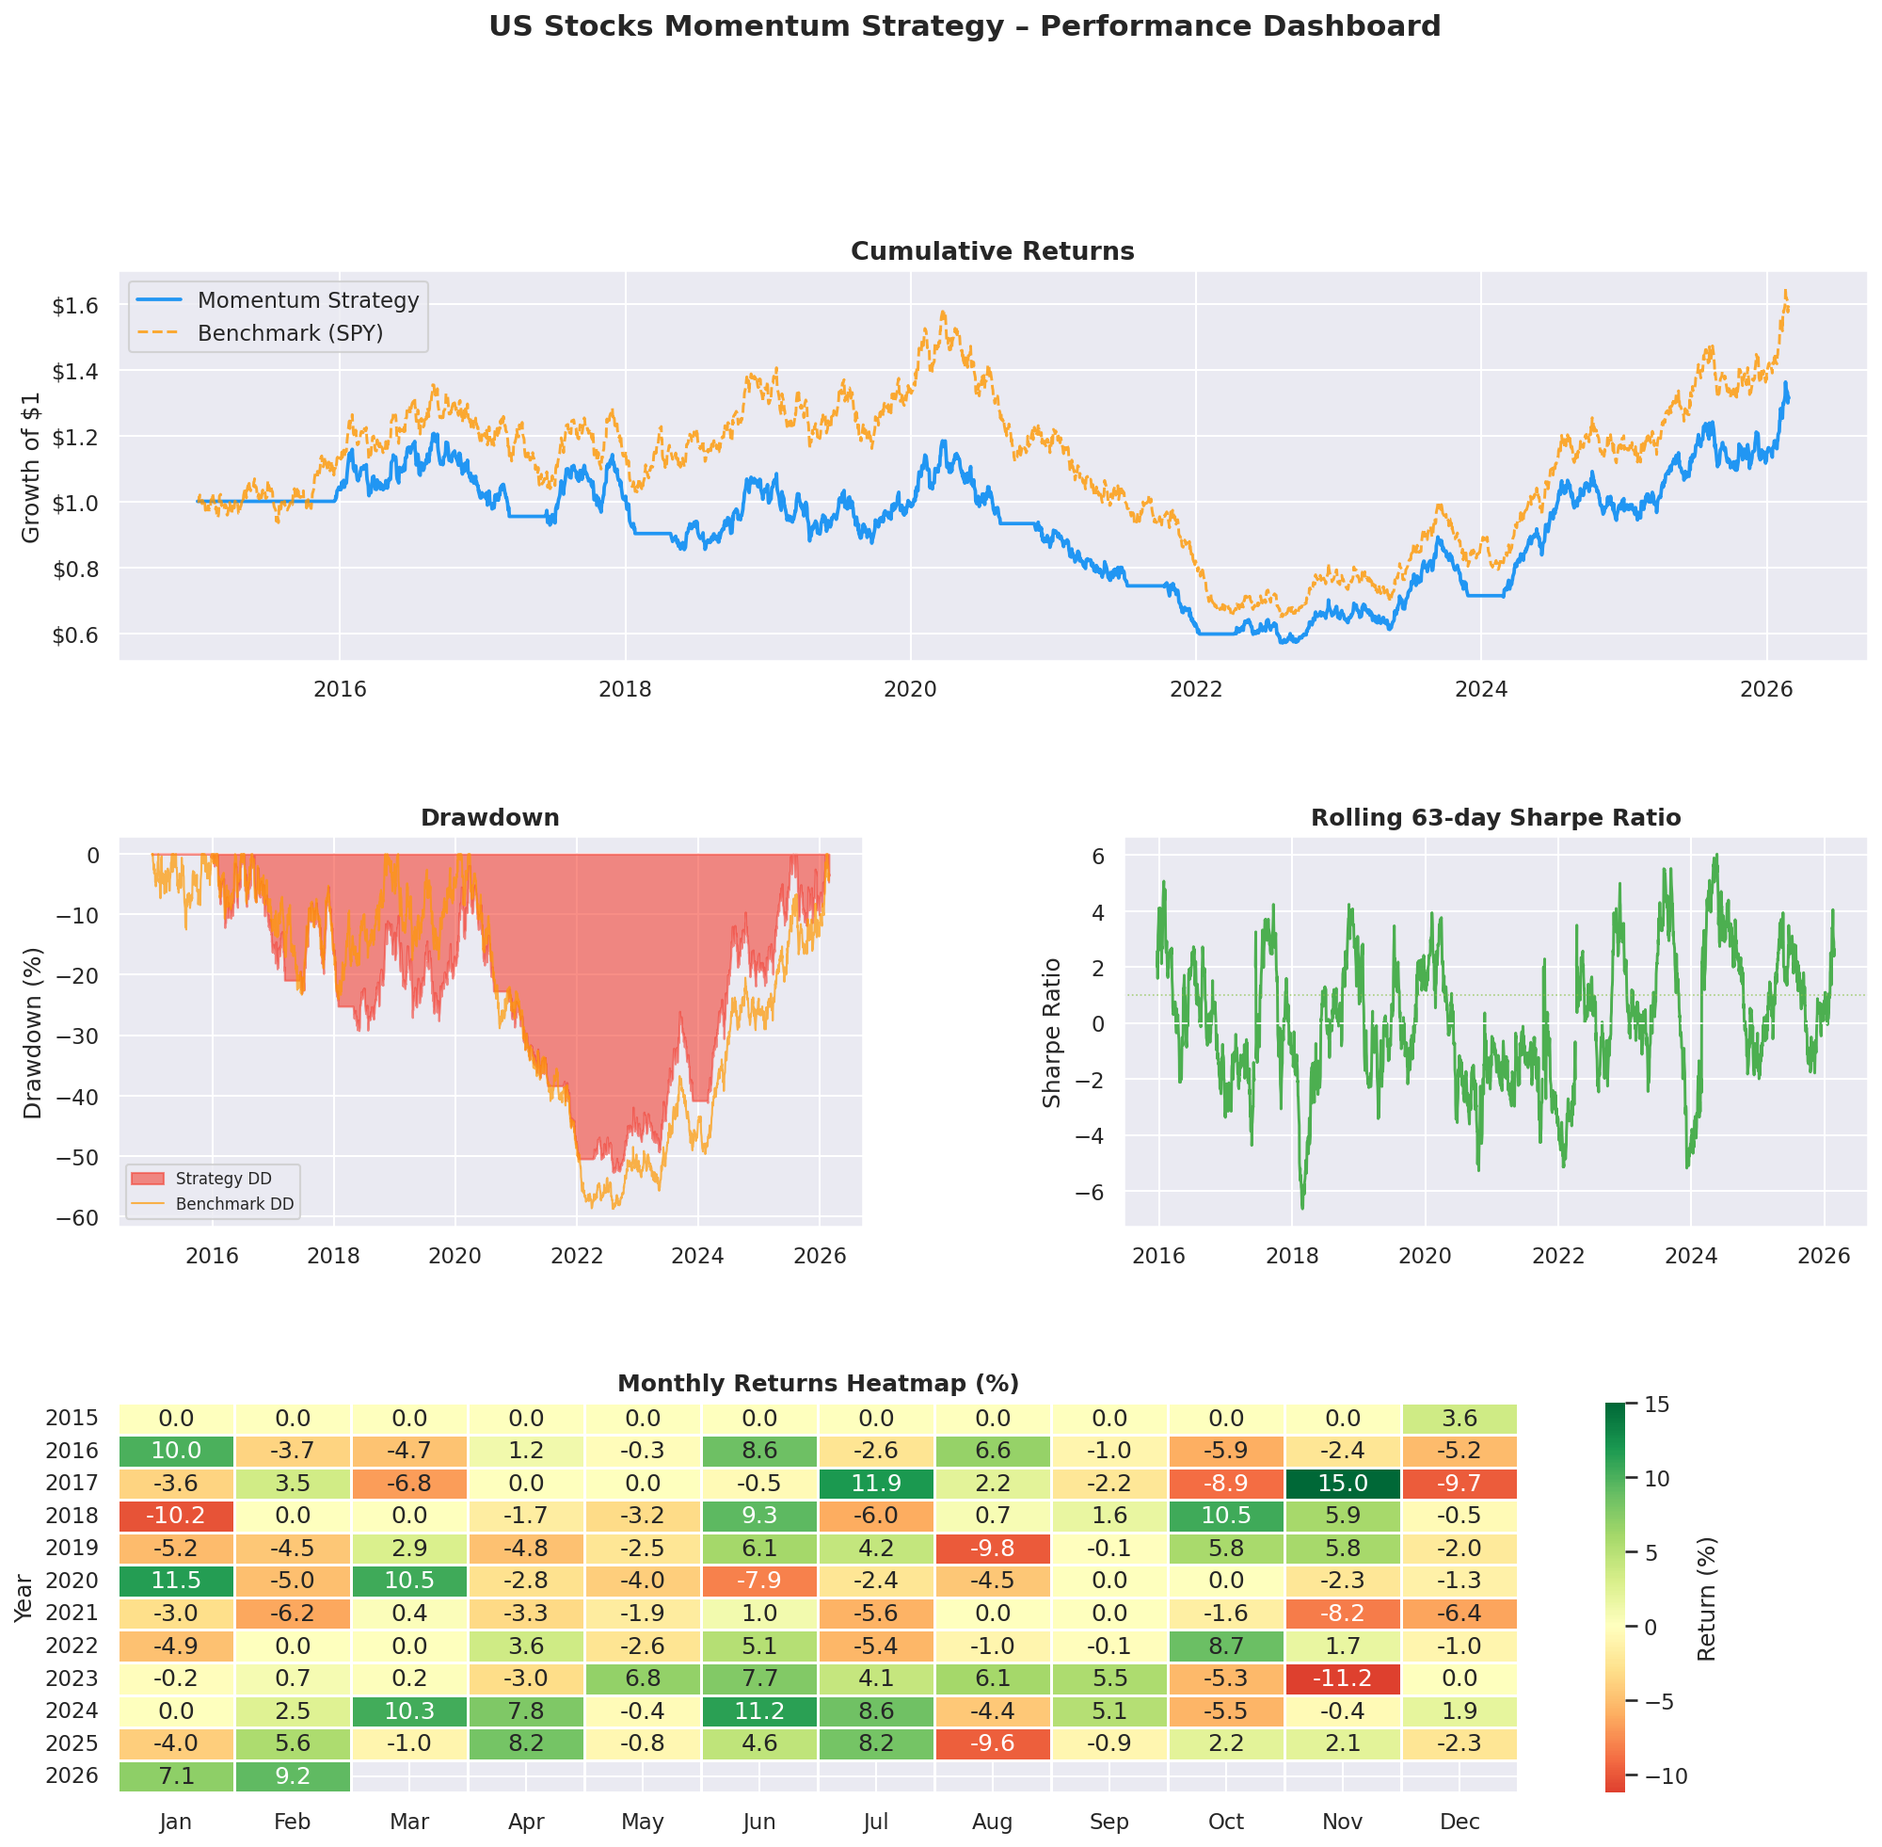
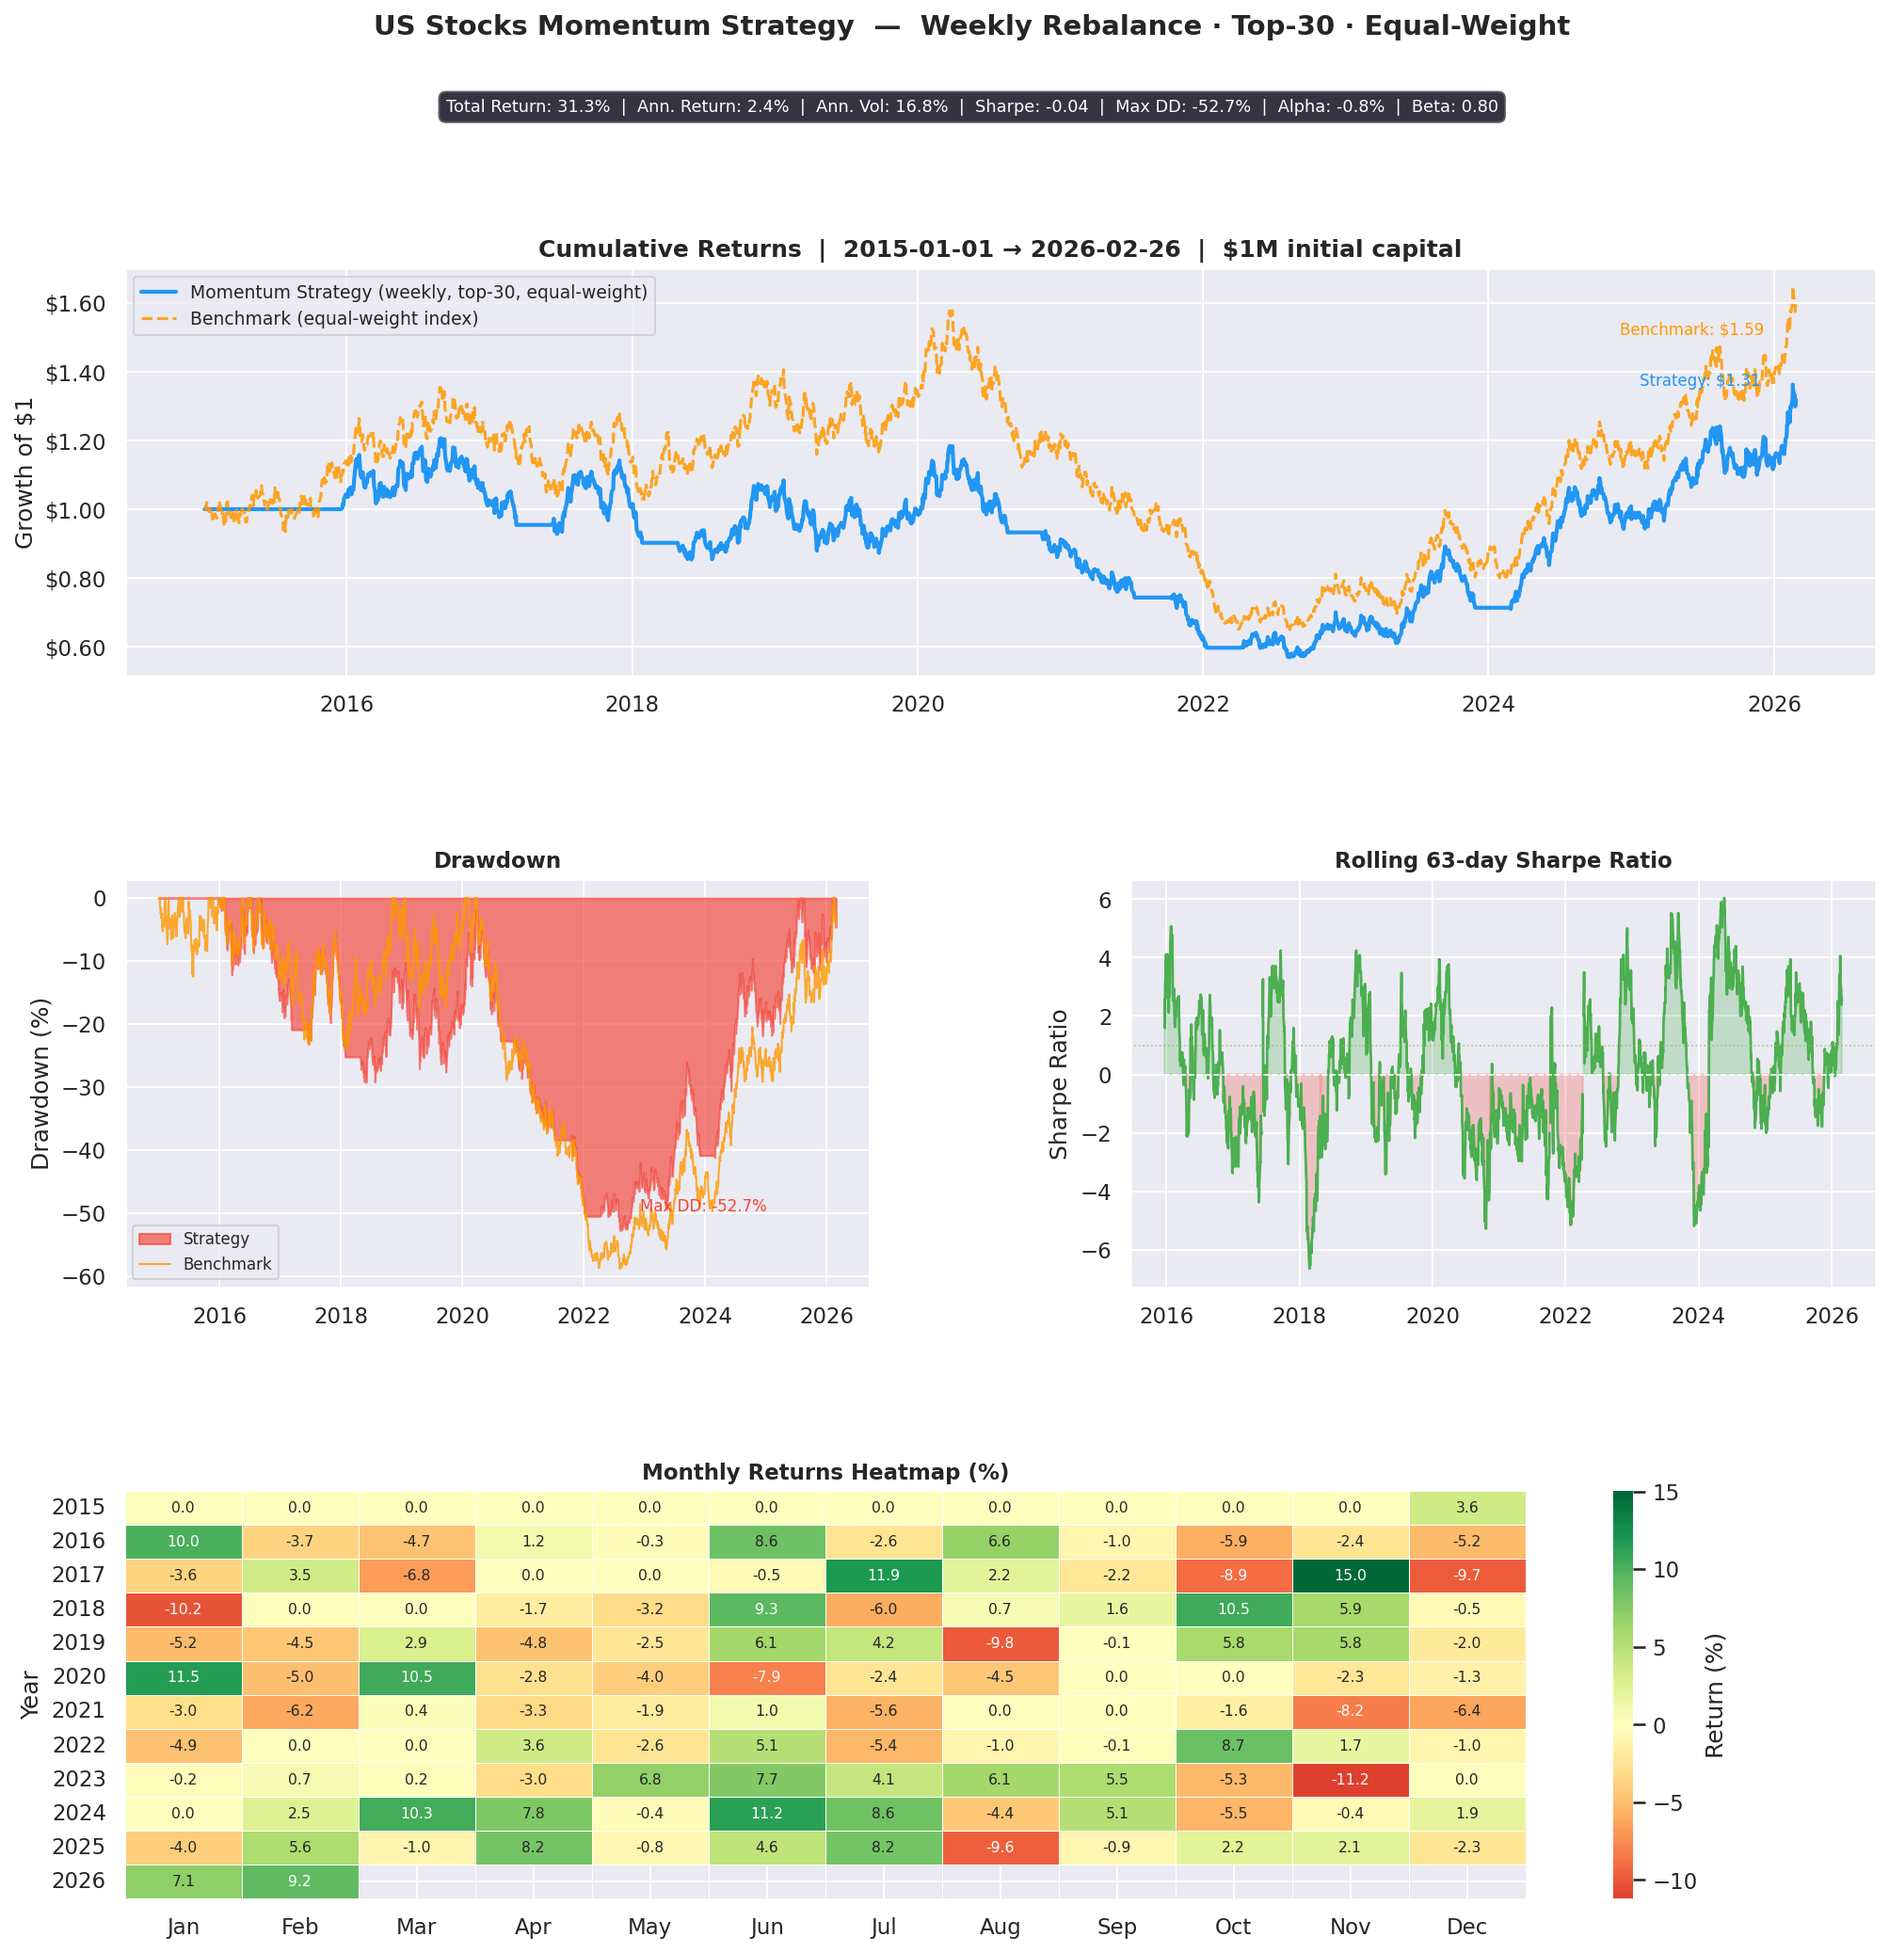
Embed charts in README and improve chart quality for GitHub
- Update README.md to reference charts with markdown image syntax so
  they render inline on GitHub
- Regenerate charts with clearer titles, final-value annotations,
  stats summary bar, and better axis formatting

https://claude.ai/code/session_01NJ2tY912oBaeHpSeQaiWYk

diff --git a/README.md b/README.md
@@ -2,6 +2,18 @@
 
 A quantitative momentum trading system for US equities with multi-factor signals, risk-parity portfolio construction, and walk-forward backtesting.
 
+## Performance Charts
+
+### Performance Dashboard
+*(Cumulative returns vs benchmark · Drawdown · Rolling Sharpe · Monthly returns heatmap)*
+
+![Performance Dashboard](charts/performance.png)
+
+### Portfolio Holdings Over Time
+*(Top-10 holdings by average weight — weekly rebalance, equal-weight, top-30)*
+
+![Portfolio Holdings](charts/weights.png)
+
 ## Features
 
 | Component | Description |
